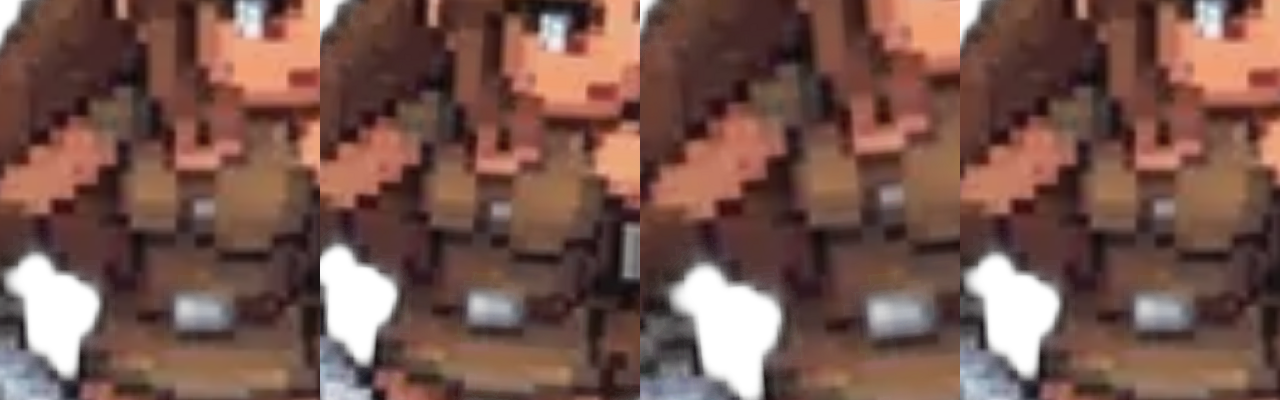
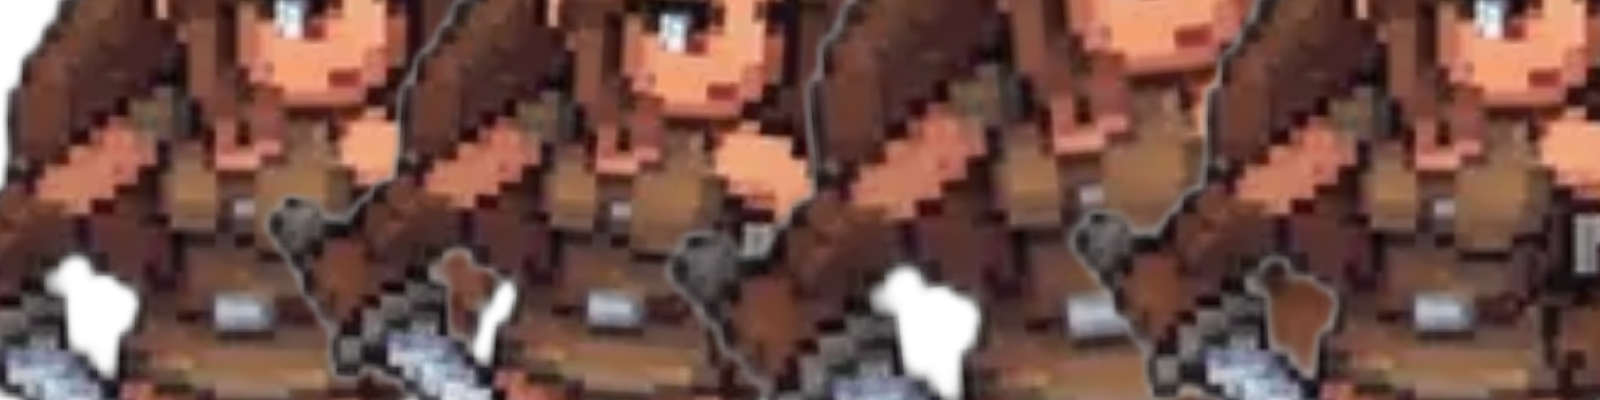
공격 애니메이션 스프라이트 시트 개선: 정사각형 프레임으로 재구성
- 프레임 크기: 320×400px (직사각형) → 400×400px (정사각형)
- 스프라이트 시트: 1280×400px → 1600×400px (4 프레임)
- CSS .anim-preview-inner: width 320px→400px, background-size 1280px→1600px
- JS 프레임 계산: posX = frameNum * 320 → frameNum * 400
- 24개 공격 애니메이션 이미지 재생성
- 캐릭터 비율 정상화: 늘어남 현상 해결

diff --git a/compendium.html b/compendium.html
@@ -137,7 +137,7 @@ th:nth-child(2),td:nth-child(2){text-align:left}
 .anim-preview{background:rgba(0,0,0,.3);border:1px solid var(--border);border-radius:8px;
   padding:16px;display:flex;align-items:center;justify-content:center;min-height:240px;position:relative;overflow:hidden}
 
-.anim-preview-inner{width:320px;height:400px;background-size:1280px 400px;background-repeat:no-repeat;background-position:0 0;image-rendering:pixelated;display:block}
+.anim-preview-inner{width:400px;height:400px;background-size:1600px 400px;background-repeat:no-repeat;background-position:0 0;image-rendering:pixelated;display:block}
 
 .anim-controls{display:flex;gap:8px;justify-content:center;align-items:center}
 .anim-btn{padding:6px 12px;background:rgba(240,192,64,.1);border:1px solid rgba(240,192,64,.3);
@@ -349,7 +349,7 @@ function renderAttackAnimationSection() {
           if (!playBtn.classList.contains('playing')) return;
 
           const frameNum = frames[currentIdx];
-          const posX = frameNum * 320; // 각 프레임은 320px
+          const posX = frameNum * 400; // 각 프레임은 400px (정사각형)
           inner.style.backgroundPosition = `-${posX}px 0`;
 
           currentIdx = (currentIdx + 1) % frames.length;
